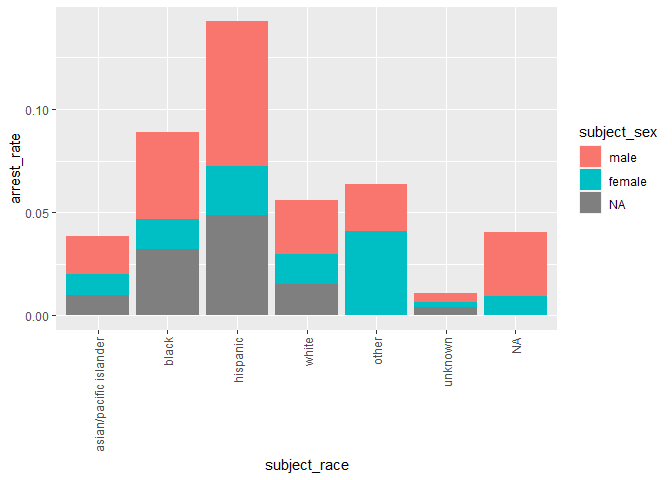
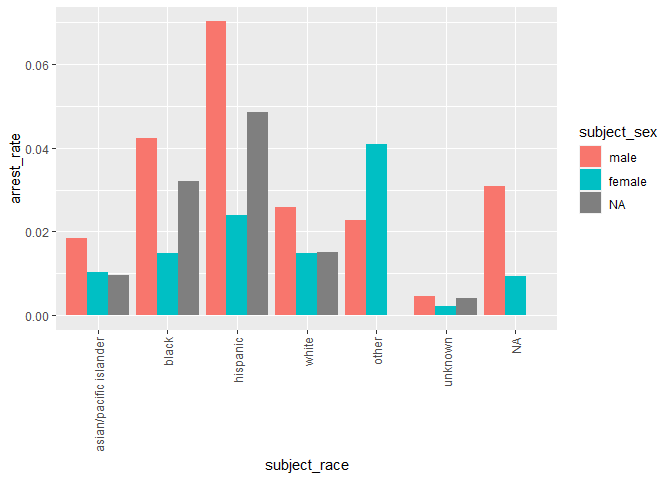
resubmit challenge 12

diff --git a/challenges/c12-policing-assignment.md b/challenges/c12-policing-assignment.md
@@ -305,7 +305,8 @@ df_q5_1 %>%
       x = subject_race, 
       y = arrest_rate, 
       fill = subject_sex
-    )
+    ),
+    position = position_dodge()
   ) + 
   guides(x =  guide_axis(angle = 90))
 ```
@@ -455,7 +456,8 @@ df_q8 <- df_data
 
 fit_q8 <- glm(
     formula = 
-      contraband_found ~ 
+      arrest_made ~ 
+      contraband_found +
       contraband_alcohol + 
       contraband_drugs + 
       contraband_weapons +
@@ -467,45 +469,69 @@ fit_q8 <- glm(
       ),
     family = "binomial"
   )
-```
 
-    ## Warning: glm.fit: algorithm did not converge
-
-    ## Warning: glm.fit: fitted probabilities numerically 0 or 1 occurred
-
-``` r
 fit_q8 %>% tidy()
 ```
 
-    ## # A tibble: 5 × 5
-    ##   term                   estimate std.error statistic p.value
-    ##   <chr>                     <dbl>     <dbl>     <dbl>   <dbl>
-    ## 1 (Intercept)               -26.1     1691.   -0.0154   0.988
-    ## 2 contraband_alcoholTRUE     51.7     3570.    0.0145   0.988
-    ## 3 contraband_drugsTRUE       52.0     2721.    0.0191   0.985
-    ## 4 contraband_weaponsTRUE     50.8     5064.    0.0100   0.992
-    ## 5 contraband_otherTRUE       51.1     4135.    0.0124   0.990
+    ## # A tibble: 6 × 5
+    ##   term                   estimate std.error statistic  p.value
+    ##   <chr>                     <dbl>     <dbl>     <dbl>    <dbl>
+    ## 1 (Intercept)             -1.00      0.0134    -74.7  0       
+    ## 2 contraband_foundTRUE     0.0566    0.0412      1.37 1.70e- 1
+    ## 3 contraband_alcoholTRUE   0.574     0.0378     15.2  4.21e-52
+    ## 4 contraband_drugsTRUE     0.310     0.0365      8.48 2.22e-17
+    ## 5 contraband_weaponsTRUE   0.221     0.0445      4.97 6.78e- 7
+    ## 6 contraband_otherTRUE     0.592     0.0382     15.5  3.90e-54
 
 **Observations**:
 
 - How does controlling for found contraband affect the `subject_race`
   terms in the model?
 
-  - Contraband presence has pretty big standard error overall, so it
-    doesn’t affect the `subject_race` by very much.
+  - `Contraband_found` has a pretty small `estimate`, so it doesn’t
+    serve as an effective predictor.
 
   What does the *finding of contraband* tell us about the stop? What
   does it *not* tell us about the stop?
 
-  - Drugs are one of the most commonly object that presents in the
-    vehicle, but it doesn’t tell us about other potential reasons of the
-    stop, e.g. speed limit of the specific area.
+  - Alcohol and other contrabands have among the highest rate of
+    presence in the vehicle, but it doesn’t tell us about other
+    potential reasons of the stop, e.g. if the driver has consumed any
+    alcohol or drugs during the time they are driving.
 
 ### **q9** Go deeper: Pose at least one more question about the data and fit at least one more model in support of answering that question.
 
+Question: Is performing frisks actually helpful? Are countrabands
+usually found from the frisk performed subjects?
+
+``` r
+df_q9 <- df_data
+fit_q9 <- glm(
+    formula = 
+      contraband_found ~ 
+      frisk_performed,
+    data = df_q9 %>%
+      filter(
+        !is.na(arrest_made),
+        subject_race %in% c("white", "black", "hispanic", "asian/pacific islander", "other", "unknown")
+      ),
+    family = "binomial"
+  )
+
+fit_q9 %>% tidy()
+```
+
+    ## # A tibble: 2 × 5
+    ##   term                estimate std.error statistic  p.value
+    ##   <chr>                  <dbl>     <dbl>     <dbl>    <dbl>
+    ## 1 (Intercept)           0.0282   0.00886      3.18 1.45e- 3
+    ## 2 frisk_performedTRUE  -0.263    0.0385      -6.84 8.16e-12
+
 **Observations**:
 
-- Document your question and findings
+- The correlation between frisk_performed = TRUE and countraband_found =
+  TRUE is negative, indicating that performing frisks isn’t necessarily
+  effective.
 
 ## Further Reading
 
